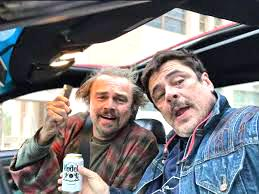
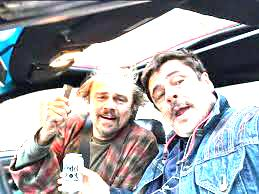
impl: command line interface using flags

diff --git a/main.go b/main.go
@@ -2,6 +2,7 @@ package main
 
 import (
 	"context"
+	"flag"
 	"fmt"
 	"image"
 	"image/color"
@@ -16,6 +17,7 @@ import (
 	"golang.org/x/sync/semaphore"
 )
 
+// ----------- IMAGE PROCESSING -----------
 type Pixel struct {
 	R, G, B, A int
 }
@@ -114,7 +116,7 @@ func (ip *ImageProcessor) increaseImageBrightness(value float32) {
 	wg := sync.WaitGroup{}
 	defer wg.Wait()
 
-	fmt.Println("increasing image brightness")
+	fmt.Printf("increasing image brightness by %.0f", (value-1)*100)
 
 	for i := 0; i < len(ip.pixelMap); i++ {
 		for j := 0; j < len(ip.pixelMap[0]); j++ {
@@ -146,12 +148,46 @@ func Ulimit() int64 {
 	return i
 }
 
+// ----------- CLI -----------
+
+func parseFlags() (string, int, string) {
+	adjustType := flag.String("adjustType", "brightness", "Type of adjustment to make to image. (brightness / contrast)")
+	adjustAmount := flag.Int("adjustAmount", 25, "Int value for percent of adjustment to make to image. i.e. 25(%)")
+	filepath := flag.String("filepath", "images/obaa_image.jpg", "Filepath to the image to adjust.")
+	flag.Parse()
+
+	fmt.Printf("adjustment type = %s!\n", *adjustType)
+	fmt.Printf("adjustment amount = %d%%!\n", *adjustAmount)
+	fmt.Printf("filepath = %s!\n\n", *filepath)
+
+	return *adjustType, *adjustAmount, *filepath
+}
+
 func main() {
-	image := readImage("images/obaa_image.jpg")
+	flag.Usage = func() {
+		fmt.Printf("Usage: %s <adjustType> <adjustAmount> <pathToImage>\nDefaults:\n", os.Args[0])
+		flag.PrintDefaults()
+	}
+
+	atype, amount, filepath := parseFlags()
+
+	image := readImage(filepath)
 	ip := &ImageProcessor{
 		pixelMap: image,
 		lock:     semaphore.NewWeighted(Ulimit()),
 	}
-	ip.increaseImageBrightness(1.25)
+
+	adjAmount := 1 + float32(amount)/100
+	switch atype {
+	case "brightness":
+		ip.increaseImageBrightness(adjAmount)
+	case "contrast":
+		fmt.Println("CONTRAST NOT IMPLEMENTED YET")
+		os.Exit(1)
+	default:
+		fmt.Println("Not a valid adjustment type. Try \"brightness\" or \"contrast\".")
+		os.Exit(1)
+	}
+
 	writeImage(getImageFromPixels(ip.pixelMap))
 }
